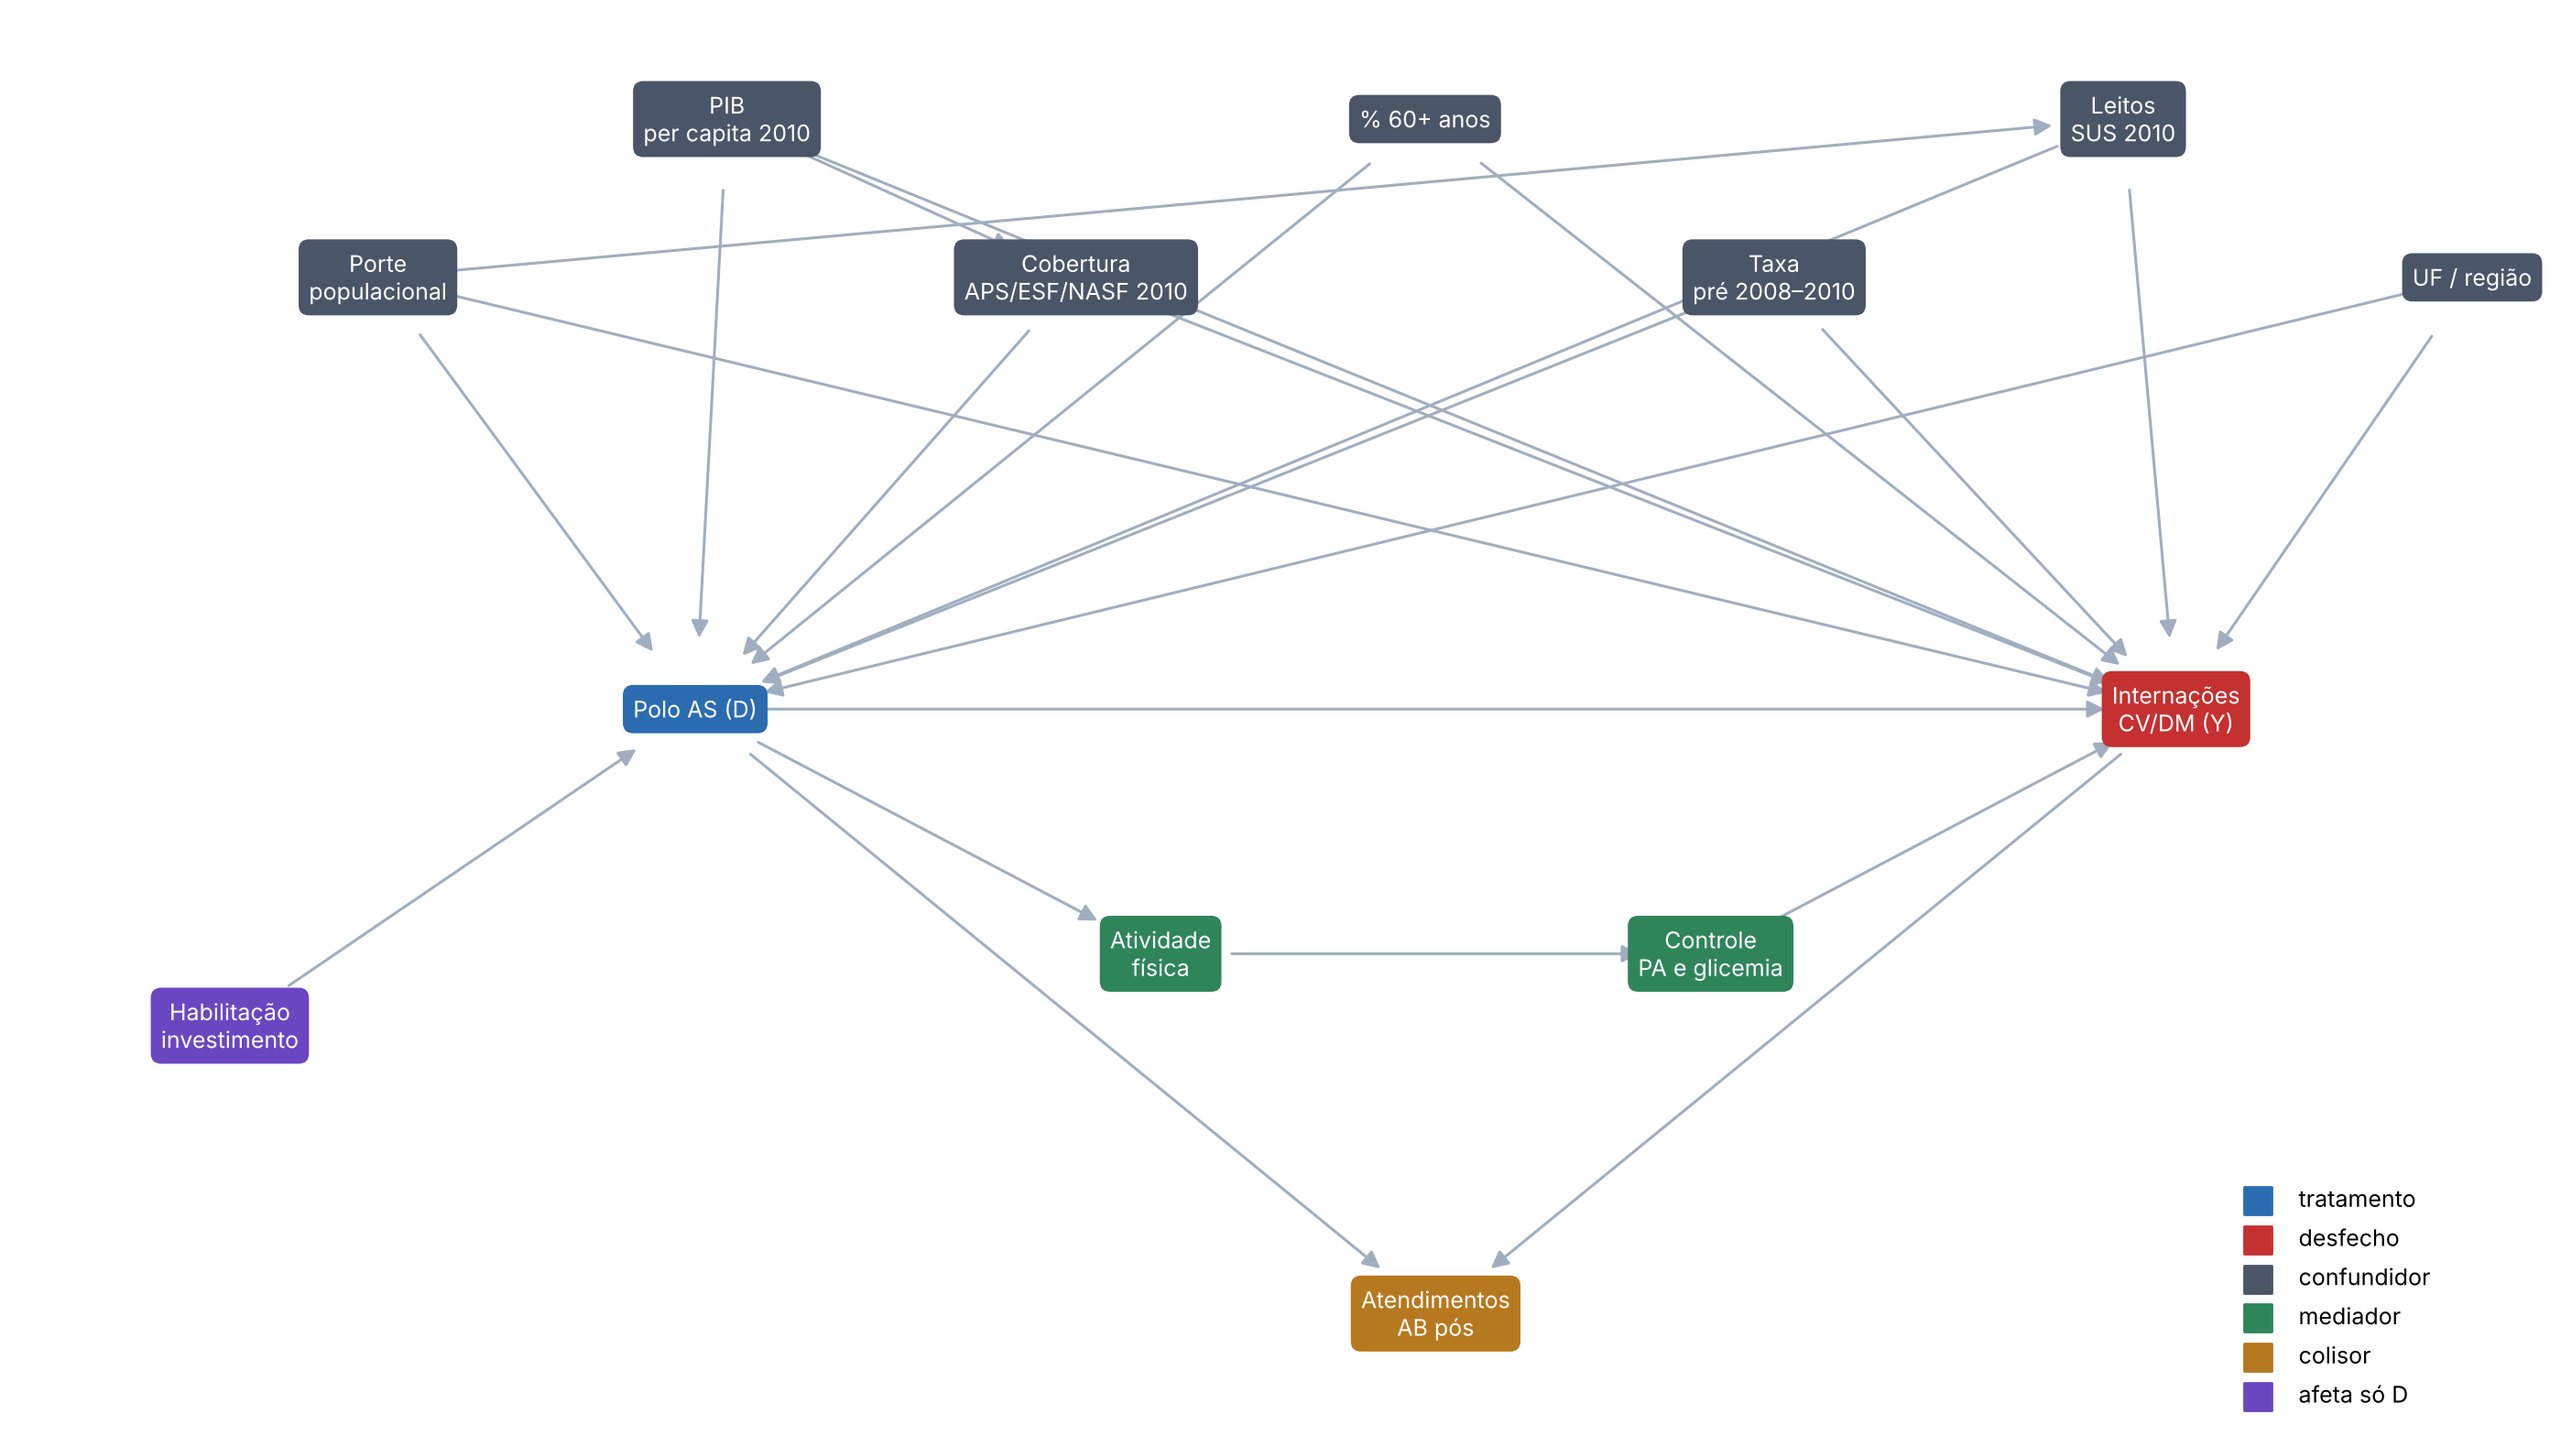
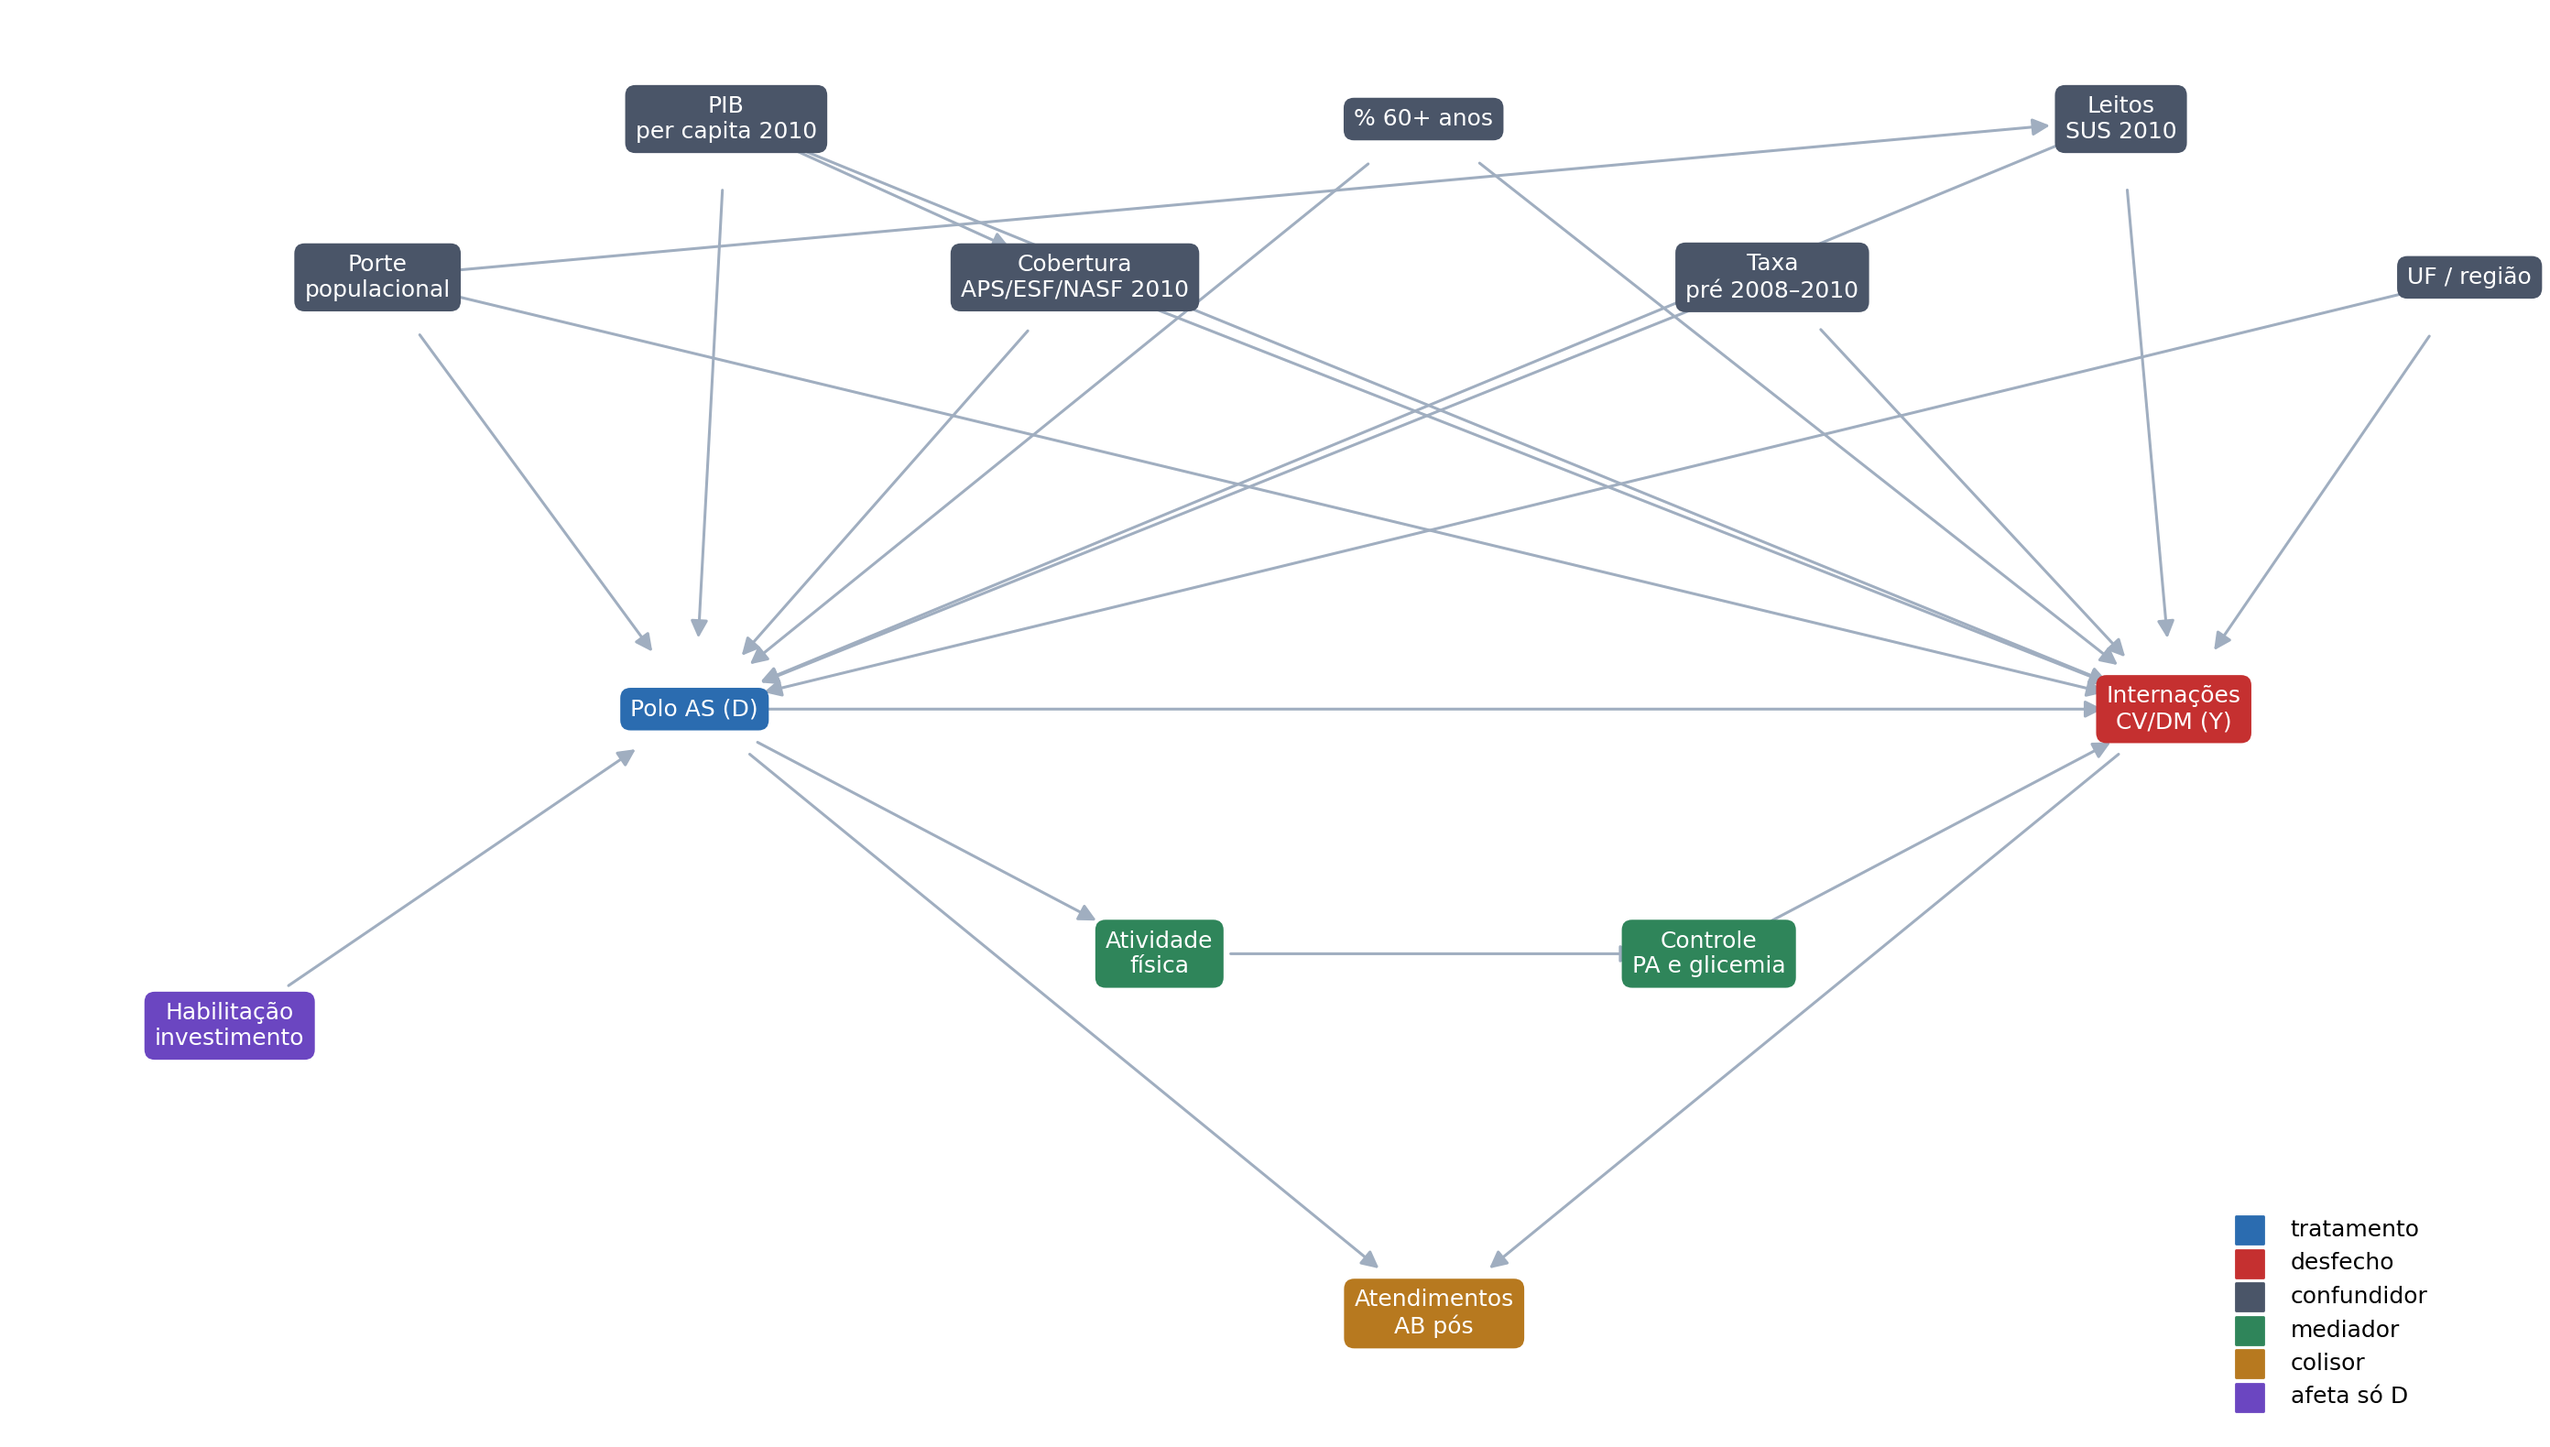
Fase 4 executada: saidas reais em outputs/ e ajuste do titulo da fig02
- outputs/: tab01_descritiva, tabA1_exclusoes, tabA2_tendencias (.csv/.tex),
  fig01_dag e fig03_tendencias da execucao no Colab (24/11/2026).
- fig02_coortes: titulo encurtado (cortava com a fonte do Colab) e contagem
  de nunca tratados em nota; fonte DejaVu Sans fixada nos graficos. A fig02
  sera regerada na proxima execucao.
- docs/decisoes.md: 414 municipios perdem o polo em algum ano.
- README: estado da Fase 4.

[IA: Claude Code, a revisar pelos autores]

Claude-Session: https://claude.ai/code/session_015zj5kJRC9pVEM73Samtw1K

diff --git a/outputs/tabelas/tabA2_tendencias.tex b/outputs/tabelas/tabA2_tendencias.tex
@@ -1,0 +1,23 @@
+\begin{tabular}{rrrrrrr}
+\toprule
+ano & 2013 & 2014 & 2015 & 2016–2018 & 2019–2024 & Nunca tratados \\
+\midrule
+2008 & 27,03 & 27,06 & 27,55 & 28,55 & 28,30 & 28,35 \\
+2009 & 29,50 & 28,85 & 29,69 & 31,03 & 30,49 & 30,57 \\
+2010 & 28,76 & 29,47 & 31,46 & 31,82 & 30,56 & 31,33 \\
+2011 & 30,37 & 29,34 & 30,28 & 31,60 & 30,99 & 31,17 \\
+2012 & 28,50 & 28,05 & 29,27 & 29,85 & 29,57 & 30,43 \\
+2013 & 27,12 & 27,18 & 27,58 & 28,75 & 28,22 & 28,93 \\
+2014 & 28,57 & 26,79 & 28,13 & 29,45 & 27,33 & 28,77 \\
+2015 & 28,12 & 25,98 & 27,25 & 28,82 & 27,02 & 28,29 \\
+2016 & 27,15 & 24,65 & 26,46 & 27,07 & 24,94 & 26,19 \\
+2017 & 26,93 & 24,95 & 25,64 & 26,81 & 25,17 & 27,28 \\
+2018 & 26,52 & 25,95 & 26,09 & 27,54 & 24,57 & 27,69 \\
+2019 & 26,15 & 25,60 & 25,40 & 27,38 & 24,74 & 27,18 \\
+2020 & 23,33 & 23,85 & 23,15 & 24,01 & 21,94 & 24,30 \\
+2021 & 23,79 & 23,53 & 22,36 & 23,67 & 22,24 & 24,69 \\
+2022 & 26,26 & 25,13 & 24,18 & 26,21 & 24,91 & 26,87 \\
+2023 & 26,91 & 26,56 & 24,63 & 27,10 & 26,16 & 28,01 \\
+2024 & 29,01 & 26,59 & 25,88 & 27,34 & 25,80 & 27,65 \\
+\bottomrule
+\end{tabular}

diff --git a/outputs/tabelas/tab01_descritiva.tex b/outputs/tabelas/tab01_descritiva.tex
@@ -1,0 +1,17 @@
+\begin{tabular}{lrrrrr}
+\toprule
+variavel & media\_tratados & dp\_tratados & media\_nunca\_tratados & dp\_nunca\_tratados & diferenca \\
+\midrule
+População (Censo 2010) & 33.349,68 & 267.722,19 & 32.175,55 & 120.574,43 & 1.174,13 \\
+PIB per capita 2010 (R\$) & 11.731,70 & 13.440,03 & 13.696,87 & 16.193,43 & -1.965,17 \\
+População com 60 anos ou mais (\%) & 11,88 & 3,24 & 12,28 & 3,35 & -0,40 \\
+Leitos SUS por mil hab. (2010) & 1,55 & 1,71 & 1,56 & 1,98 & -0,01 \\
+Equipes de saúde por 10 mil hab. (2010) & 3,38 & 1,30 & 3,10 & 1,45 & 0,28 \\
+Internações CV/DM por 10 mil hab. (2008–2010) & 29,64 & 19,76 & 30,08 & 20,45 & -0,45 \\
+  Doenças hipertensivas & 10,98 & 13,07 & 10,45 & 12,50 & 0,52 \\
+  AVC & 9,35 & 6,47 & 9,79 & 6,58 & -0,44 \\
+  Diabetes & 9,31 & 7,43 & 9,84 & 8,33 & -0,53 \\
+Internações por apendicite por 10 mil hab. (2008–2010) & 4,59 & 3,46 & 4,94 & 3,45 & -0,35 \\
+Municípios (N) & 2.464,00 &  & 2.777,00 &  &  \\
+\bottomrule
+\end{tabular}

diff --git a/outputs/tabelas/tabA1_exclusoes.tex b/outputs/tabelas/tabA1_exclusoes.tex
@@ -1,0 +1,9 @@
+\begin{tabular}{lrr}
+\toprule
+passo & excluidos & restantes \\
+\midrule
+Municípios no painel & 0 & 5571 \\
+Sem população em algum ano (instalados durante o período) & 6 & 5565 \\
+Polo antes de 2013 & 324 & 5241 \\
+\bottomrule
+\end{tabular}

diff --git a/docs/decisoes.md b/docs/decisoes.md
@@ -15,3 +15,4 @@ limpeza com contagem de registros afetados ficam também em markdown nos caderno
 | 2026-11-24 | **Proposta (a confirmar):** UF-anos sem arquivo CNES-IN no FTP do DATASUS nem no espelho do PySUS (ex.: RR, dez/2008; 6 casos na extração completa) são tratados como nenhum estabelecimento com incentivo, e listados em `cnes_in_arquivos_inexistentes.csv`. Vale só para o CNES-IN (robustez R1); no CNES-ST e no SIH, arquivo inexistente continua sendo falha | Extração completa no Colab em 24/11/2026: "nenhum arquivo encontrado" nas duas origens | `notebooks/01_extracao.ipynb`, seção 3.3 |
 | 2026-11-24 | **Proposta (a confirmar):** unificar todos os códigos de município do DF (`53xxxx`) em Brasília (`530010`), nas internações (SIH) e no CNES (polos, incentivos, leitos, equipes) | Extração completa: 1.270.397 internações (0,64%) ficaram "fora da lista do IBGE", e os 5 códigos mais frequentes (530040, 530180, 530120, 530140, 530060) são do DF; o DF é um único município no IBGE | `notebooks/01_extracao.ipynb`, seção 6.3 |
 | 2026-11-24 | **Evidência para decisão dos autores (tratamento absorvente?):** 2.789 municípios tiveram polo tipo 74 em dezembro de algum ano entre 2011 e 2024, mas só 2.508 têm polo em dez/2024; cerca de 280 municípios deixaram de ter polo no CNES. O PLANO.md (Fase 4) define D como monotônico ("uma vez tratado, sempre tratado"), o que corresponde a uma leitura de intenção de tratar a partir do primeiro polo. Os autores devem confirmar essa escolha e decidir se a discutem como limitação ou se fazem robustez (ex.: excluir quem perdeu o polo) | Coortes g na seção 6.5 do `01_extracao` (execução de 24/11/2026) e polos por ano na seção 3.2 | `PLANO.md`, Fase 4; `notebooks/02_analise.ipynb`, seção 3 |
+| 2026-11-24 | **Atualização da evidência sobre tratamento absorvente:** com o painel completo, 414 dos 2.789 municípios tratados aparecem sem polo tipo 74 em algum ano depois do primeiro (a estimativa anterior, ~280, contava só os sem polo em 2024). O `02_analise` usa `TRATAMENTO_ABSORVENTE = True` até a decisão dos autores | `notebooks/02_analise.ipynb`, seção 3.2, executado no Colab em 24/11/2026 | `02_analise`, célula de ambiente |

diff --git a/README.md b/README.md
@@ -24,7 +24,7 @@ Callaway & Sant'Anna). O plano completo está em [`PLANO.md`](PLANO.md).
 | 1 — Pergunta, estimando, DAG | DAG, teste de backdoor e `fig01_dag.png` feitos (a revisar); literatura pendente |
 | 2 — Esqueleto dos cadernos | Feito (`01_extracao`, `02_analise`) |
 | 3 — Extração | **Concluída** (24/11/2026): `01_extracao` executado no Colab em modo completo; painel de 94.707 linhas (5.571 municípios × 17 anos) conferido com o TabNet ([`docs/validacao/`](docs/validacao/)) |
-| 4 — Base analítica e descritiva | `02_analise`, seções 3 e 4, implementadas e testadas com dados fictícios; **a executar no Colab** |
+| 4 — Base analítica e descritiva | `02_analise`, seções 3 e 4, executadas no Colab em 24/11/2026: amostra DiD de 5.241 municípios × 17 anos; base do PSM com 978 tratados (2013–2015) e 2.777 nunca tratados; `tab01`, `fig02`, `fig03` em `outputs/` (fig02 a regerar após ajuste do título) |
 | 5 a 9 | Pendentes |
 
 ## Como executar
